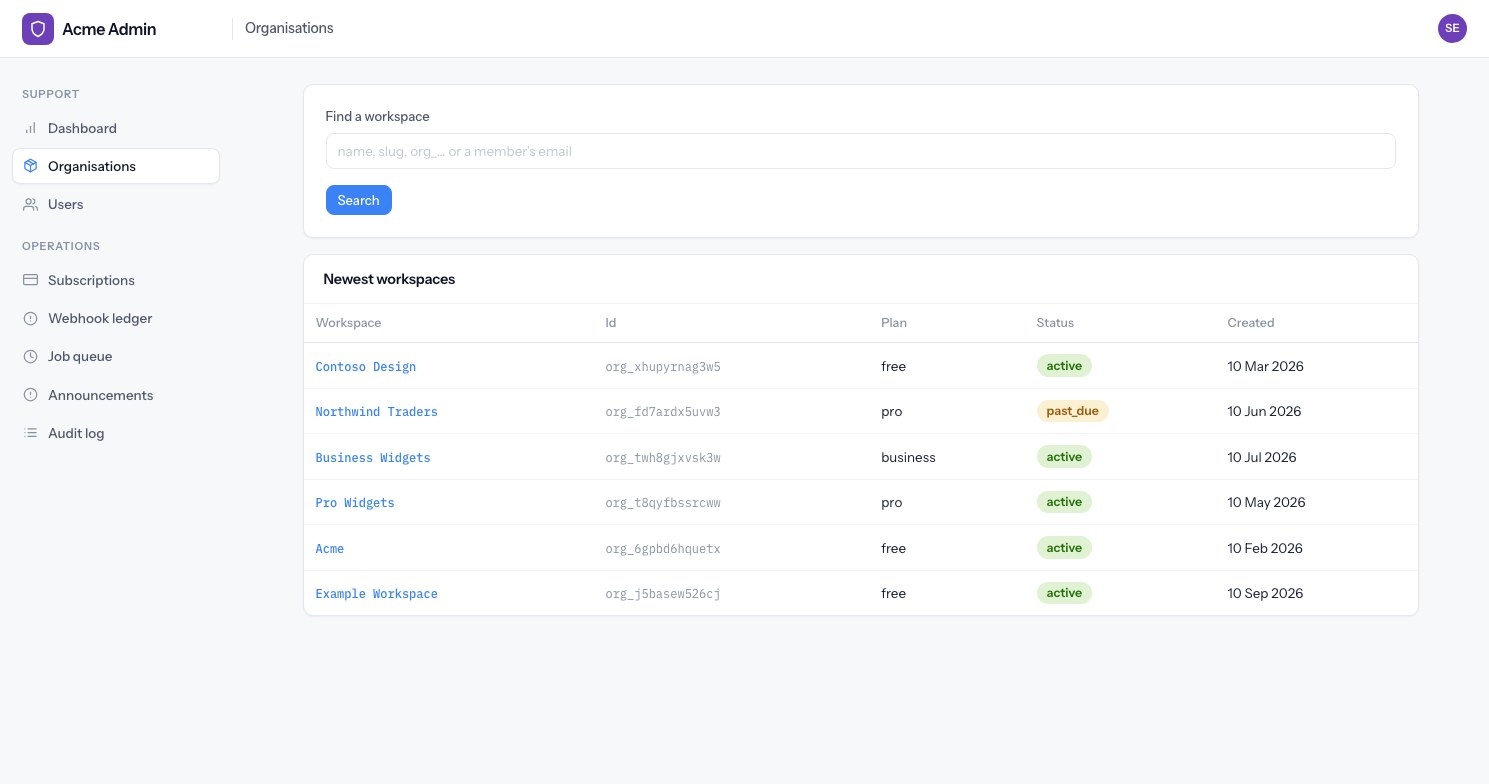
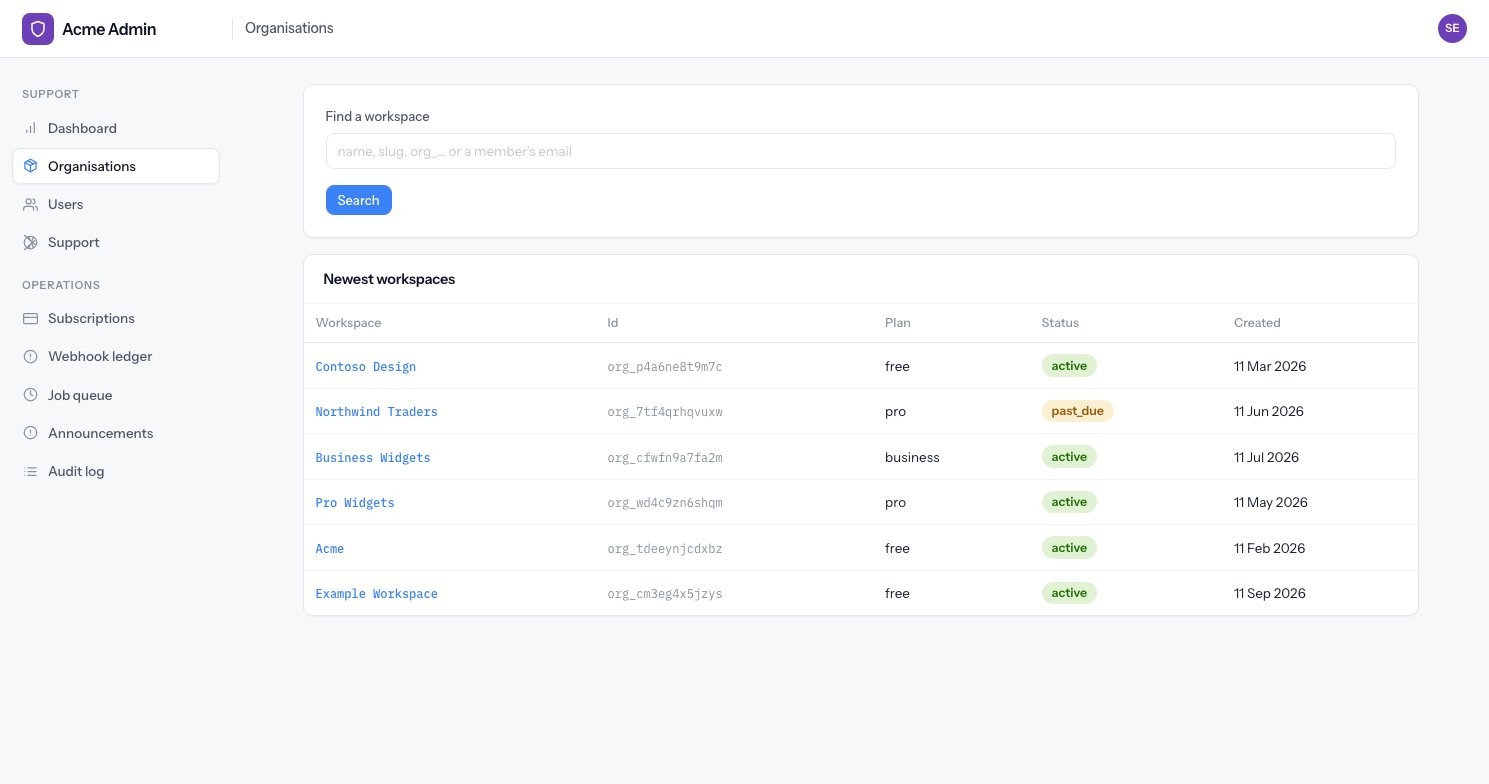
regenerated screenshots

diff --git a/README.md b/README.md
@@ -231,6 +231,8 @@ is offered a screen that would refuse them.
 | 💳 **Billing** — current plan, usage, the plan grid, and every charge and refund | <img src="docs/screenshots/owner-billing.jpg" alt="Billing screen with plan grid and transaction history" width="420" /> |
 | 🔐 **Security** — two-factor turned on, recovery codes, and changing a password | <img src="docs/screenshots/owner-security.jpg" alt="Security settings with two-factor enabled" width="420" /> |
 | 📣 **Announcements** — one-way notices, new ones highlighted | <img src="docs/screenshots/member-announcements.jpg" alt="Announcements feed" width="420" /> |
+| 🎫 **Support** — the workspace's tickets, with the ones we have answered marked | <img src="docs/screenshots/owner-support.jpg" alt="Support ticket list with answered and resolved tickets" width="420" /> |
+| 💬 **A ticket** — the conversation with staff, attachments, and replying to a resolved ticket reopens it | <img src="docs/screenshots/owner-support-ticket.jpg" alt="A support conversation with a staff reply" width="420" /> |
 
 </details>
 
@@ -242,6 +244,7 @@ is offered a screen that would refuse them.
 | ⚠ **Past due** — a charge failed. Nothing is taken away; the banner is on every screen until it is fixed | <img src="docs/screenshots/owner-past-due.jpg" alt="Billing screen for a past-due workspace" width="420" /> |
 | 🔎 **A workspace, from the back office** — usage, members, the subscription mirror, plan and limit overrides, impersonation | <img src="docs/screenshots/staff-admin-organisation.jpg" alt="Back-office view of one workspace" width="420" /> |
 | 🧾 **Subscriptions** — every subscription, filterable by state, with what the provider last told us | <img src="docs/screenshots/staff-admin-subscriptions.jpg" alt="Back-office subscription ledger" width="420" /> |
+| 🎧 **The support queue** — waiting on us, waiting on them, resolved; every workspace's tickets beside the open conversation | <img src="docs/screenshots/staff-support-queue.jpg" alt="Back-office support queue with a conversation open" width="420" /> |
 
 </details>
 
